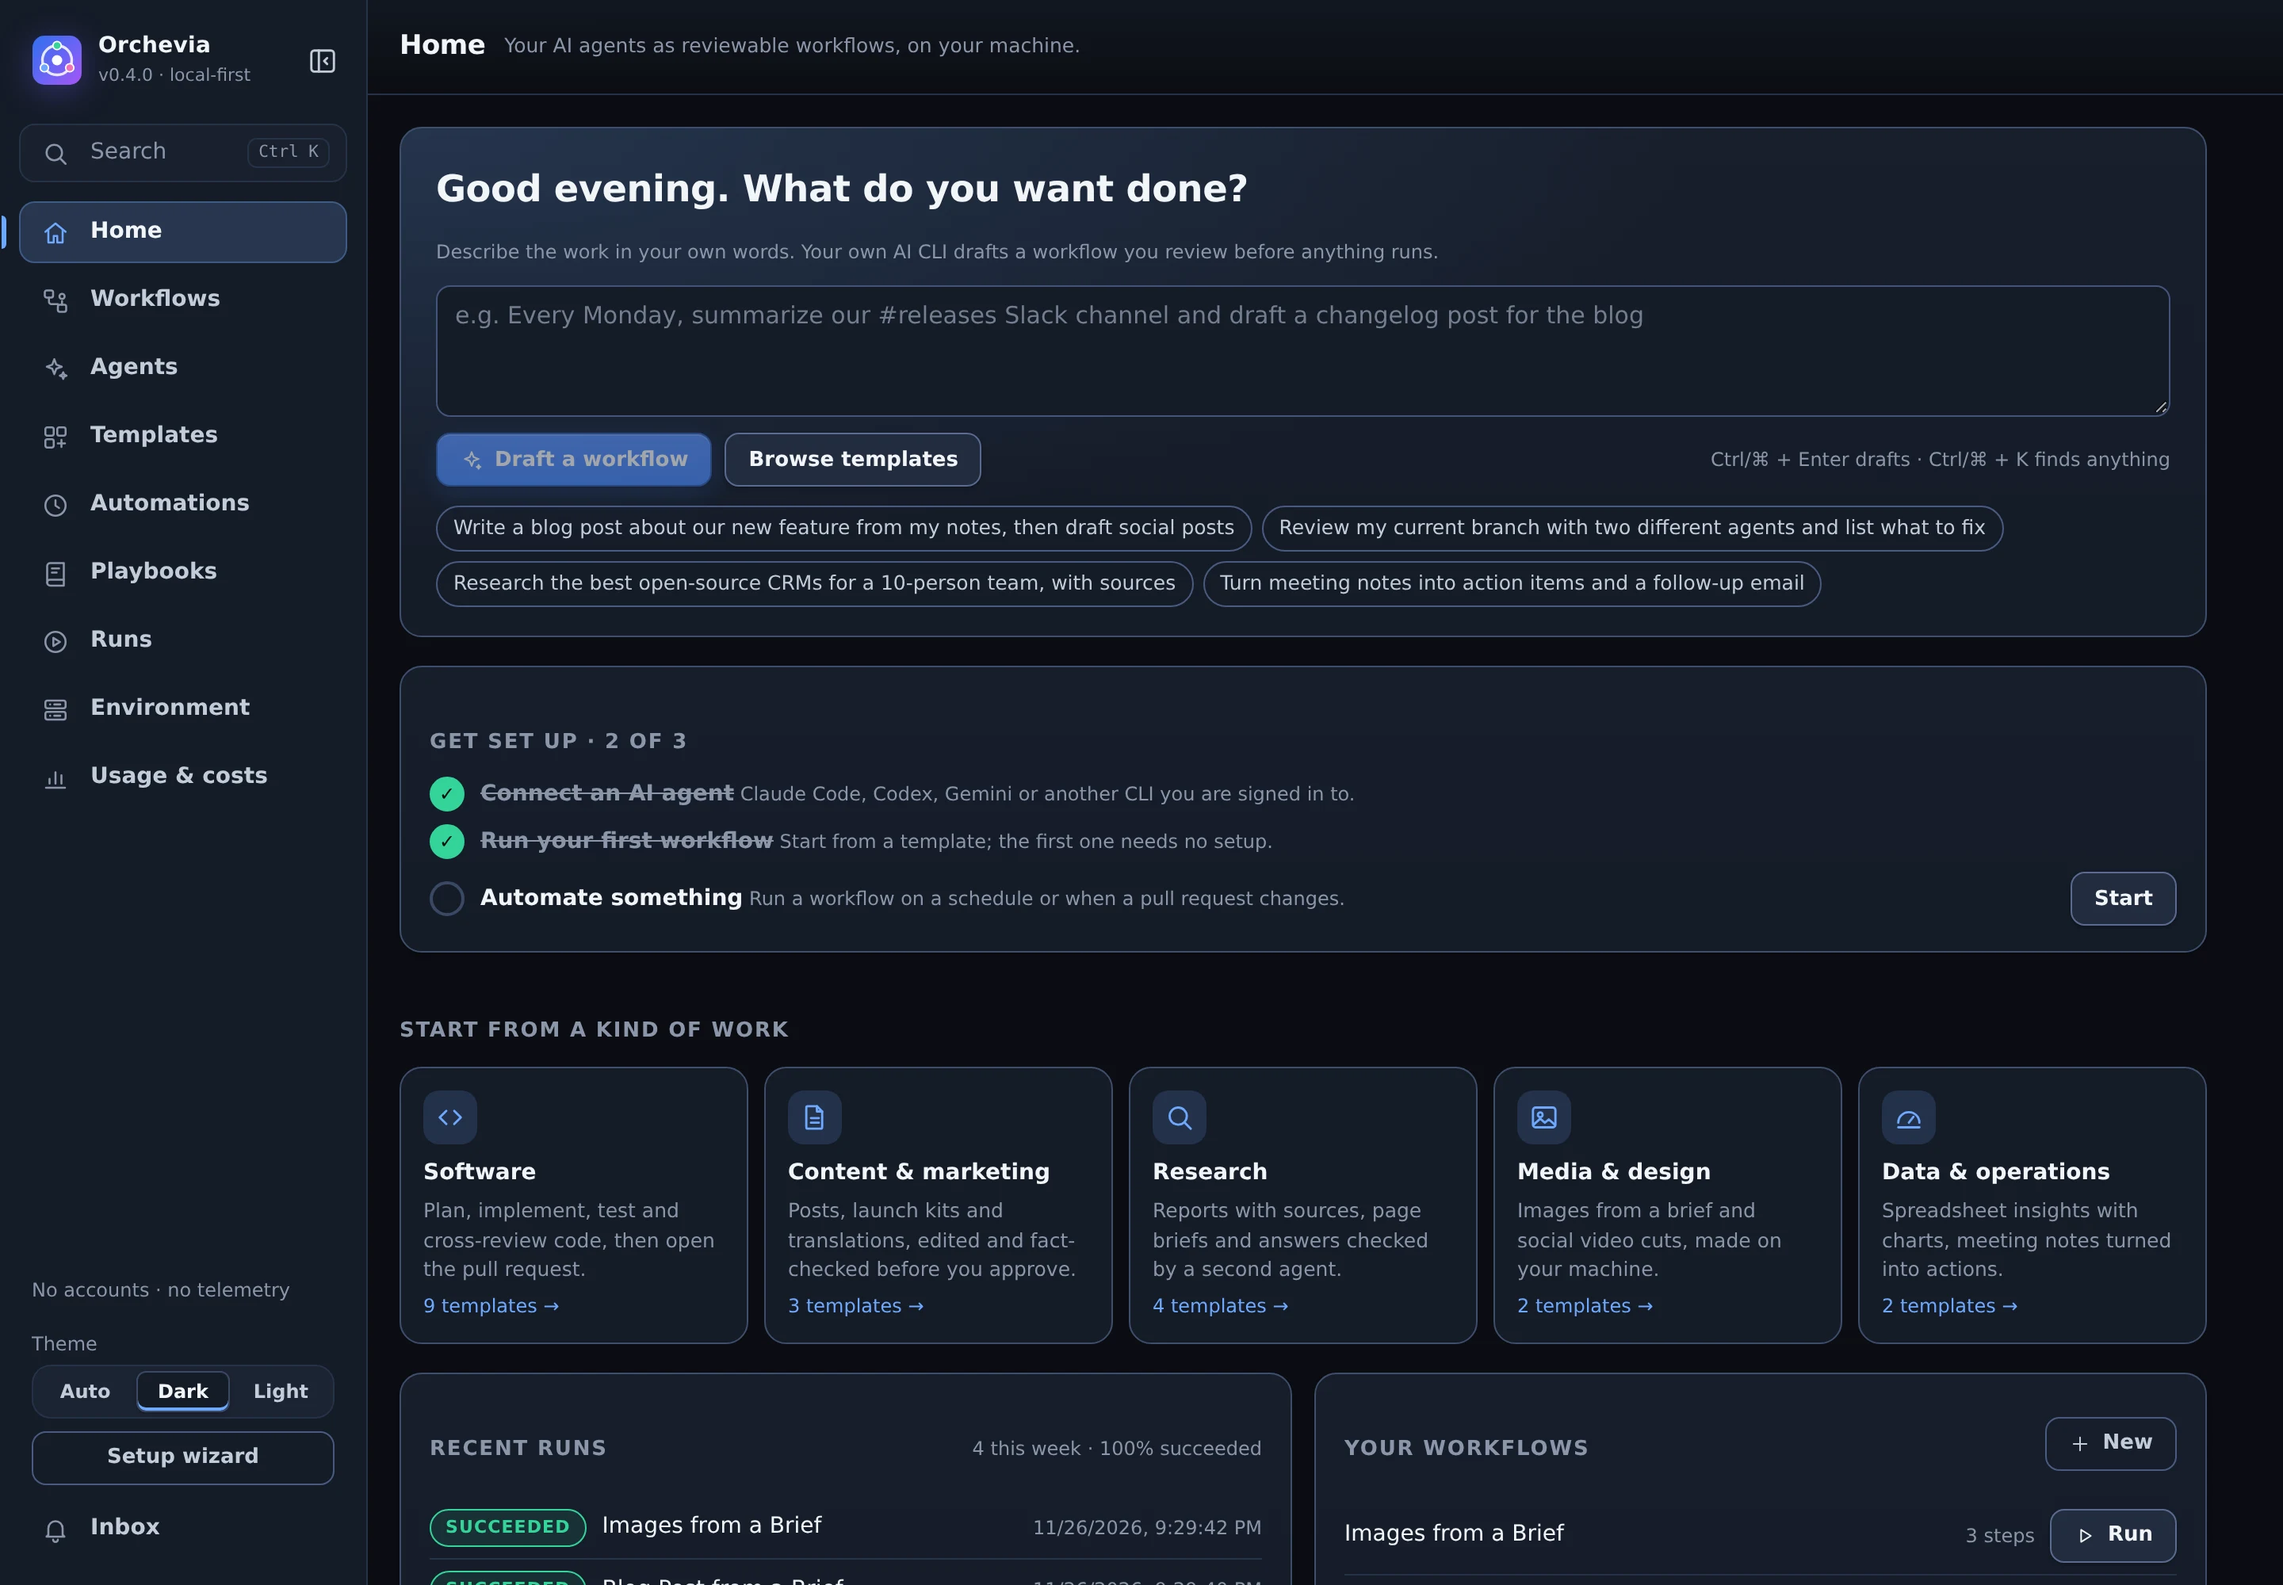
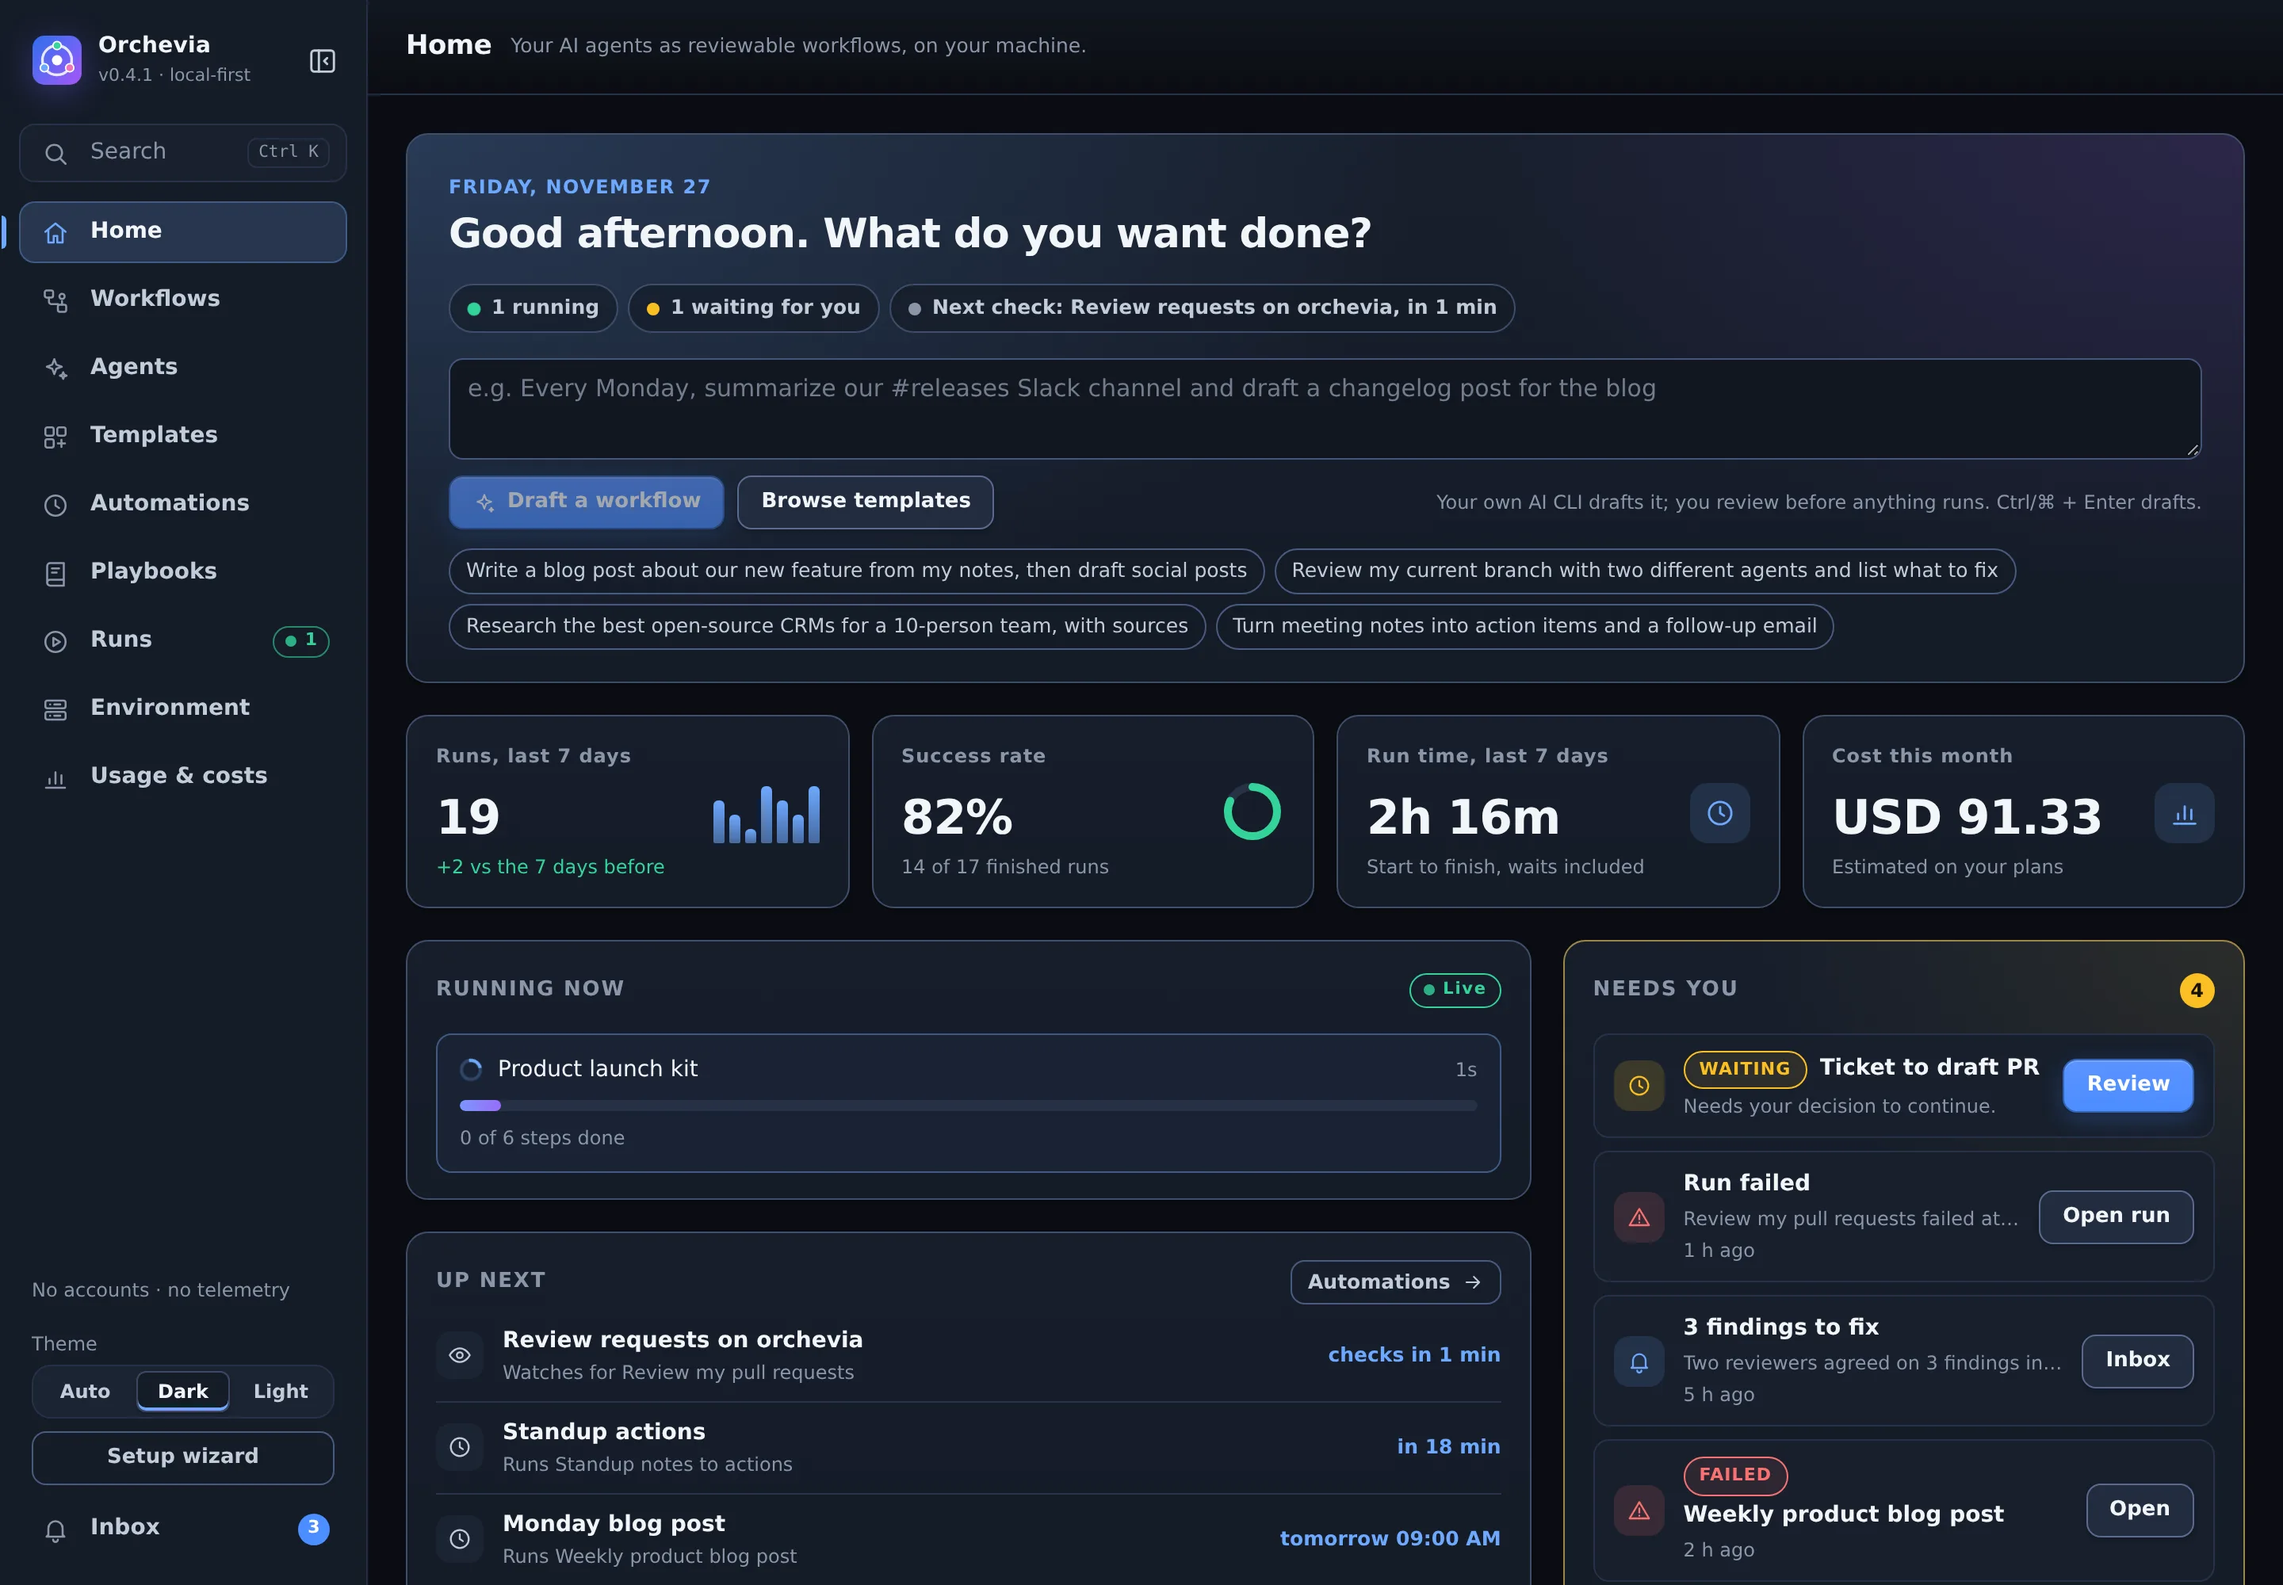
Release 0.4.1
Version 0.4.1 in every manifest, the lockfile and the site's JSON-LD.
CHANGELOG, README, ROADMAP, getting-started and the implementation note
describe the Home dashboard and the shared page layout. The website's
Home screenshot shows the dashboard (1440 × 1000 at 2×, from the seeded
browser demo), with new alt text and card copy.

diff --git a/docs/index.html b/docs/index.html
@@ -65,7 +65,7 @@
         "url": "https://iazaran.github.io/orchevia/",
         "downloadUrl": "https://github.com/iazaran/orchevia/releases/latest",
         "image": "https://iazaran.github.io/orchevia/images/social-preview.jpg",
-        "softwareVersion": "0.4.0",
+        "softwareVersion": "0.4.1",
         "description": "Local-first desktop app for visual workflows with AI agents: code changes and reviews, content, research, media and data work, with MCP tools, Git and GitHub, CI waits, approvals, review history and n8n import and export."
       }
     </script>
@@ -1715,7 +1715,8 @@ Press ▶ Run demo to start.</pre>
               <h3>Start from a goal</h3>
               <p>
                 Home asks what you want done and your own CLI drafts the workflow to
-                review. Ctrl/⌘ K finds any view, workflow, template or run.
+                review. It shows what is running, what needs you and this month's usage.
+                Ctrl/⌘ K finds any view, workflow, template or run.
               </p>
             </article>
             <article class="card third reveal">
@@ -2340,7 +2341,7 @@ Press ▶ Run demo to start.</pre>
             <figure class="shot reveal">
               <img
                 src="./images/home.webp"
-                alt="Orchevia's Home screen: a box asking what you want done with example goals, the setup steps left, five kinds of work and recent runs."
+                alt="Orchevia's Home dashboard: a box asking what you want done, this week's runs, success rate, run time and cost, a run in progress with its step, what needs you and what runs next."
                 width="1440"
                 height="1000"
                 loading="lazy"

diff --git a/implementation-plan/v041-home-dashboard-and-one-layout.md b/implementation-plan/v041-home-dashboard-and-one-layout.md
@@ -1,0 +1,74 @@
+# Orchevia 0.4.1
+
+Feedback on 0.4.0: Home is nice but should be a real dashboard (what is running,
+something from the Inbox, what matters in usage), and pages must stop mixing
+left-aligned narrow content with full-width content.
+
+## Implementation and handoff
+
+- [x] Page column in `src/styles.css`: `.main` defines `--page-gutter`
+  (`max(24px, (100% - --page-max) / 2)`, `--page-max` 1360 px); `.topbar`,
+  `.view` and `.update-banner` pad with it, so the title and body line up and
+  centre beyond the cap. Removed the box caps (`.section-panel`, `.empty-state`,
+  `.notice`, `.run-list`, `.inbox-list`, `.usage-chart-panel`, `.ability-cli`,
+  `.home-view`, `.setup-check-profiles`); only `.section-hint` keeps
+  `--measure`. `src/styles.test.tsx` pins the gutter and the absence of caps.
+- [x] Dashboard data in `src/lib/dashboard.ts` (pure, tested): `activityByDay`
+  (local days, DST-safe), `weekStats`/`weekDelta`, `upcomingAutomations`
+  (enabled schedules' `nextRunAt`, watchers' `watcherNextCheck`),
+  `attentionItems` (waiting runs, unread non-update entries, today's failures,
+  each run once), `monthToDateFilter` (UTC month, whole days, as plan costs
+  need), `formatSpan`. `formatRelative` in `src/lib/time.ts`.
+- [x] `run_stamps` (Tauri command over `usage::run_stamps` and
+  `SqliteDb::list_run_stamps`, mock twin `runStamps`): status and times of every
+  run started since an RFC 3339 instant, newest first, three columns only. Home's
+  figures and chart count it (never `listRuns(100)`), read again when the recent
+  list's ids or statuses change. Same "Invalid 'since' date; use RFC 3339."
+  error on both sides.
+- [x] `list_active_runs` (Tauri command over `SqliteDb::list_active_runs`, mock
+  twin `listActiveRuns`): pending, running and paused runs however old. The
+  store keeps them as `activeRuns`, refreshed with runs every 5 s, and
+  `mergeActiveRuns` adds the ones `listRuns(100)` misses for the sidebar count
+  and Home (live cards, Needs you). `list_runs` itself is unchanged, so Runs
+  and its tests keep their list.
+- [x] `HomeView`: pulse line, four figure tiles (buttons to Runs/Usage), Running
+  now (`runProgress` over `getRunWorkflow` + `getRunResults`, every 2 s, at most
+  three runs), Up next, Activity (CSS bars, `role="img"` summary), Recent runs,
+  Needs you (4 rows + "more in the Inbox"), Usage this month (`usageSummary` +
+  `estimatePlanCost` with the saved plans and share; refetched when a run
+  finishes), kinds of work, workflow cards. Figures and the chart are hidden
+  until there is a run.
+- [x] Sidebar: `.nav-live` running count on Runs; App refreshes runs with the
+  Inbox every 5 s while the window is visible.
+- [x] Runs detail empty state with **Open the latest run**; Usage chart drawn at
+  the panel width (ResizeObserver, 480–1600 coordinates, 760 without one);
+  Environment permission levels and abilities side by side; Inbox relative
+  times, unwrapped buttons; Usage tiles share Home's tile style.
+- [x] Mock backend keeps `notifications` (list newest first, `limit` clamped
+  1–200, `unreadOnly`, mark read persists), matching `db.rs`.
+- [x] Site: new `docs/images/home.webp` (1440 × 1000 @2x from the seeded mock),
+  alt text and the Home card copy.
+
+- [x] Review (Fable, Codex). Fixed: figures built from the 100-run list; the
+  cost tile showing the API value without plans; success and schedule-started
+  entries in Needs you; "more in the Inbox" pointing at runs; a rolling 7 × 24 h
+  count beside a 7-calendar-day chart; failures shown after a rerun; Home polling
+  runs on its own and live progress without an in-flight guard or visibility
+  gate; raw ISO tooltips; a progress bar with a value before its first reading;
+  the Workflows title bar centred over a full-bleed editor. Second reviewer:
+  older running or waiting runs dropping off Home and the sidebar; a stale
+  "Up next" (automations now refresh every 30 s, a passed slot reads "due
+  now"); Home's open-run buttons failing silently; the window starting 14 × 24 h
+  back instead of at local midnight; usage not re-read while a run still runs;
+  zero tokens shown when none were reported; a mouse-only daily breakdown (now
+  also a screen-reader table); Inbox cards squeezed below 1000 px; mock Inbox
+  retention (newest 500 after a listing, as `db.rs`); a persistence test that
+  passed on an empty list. Not changed: tooltips use `formatTime` like every
+  view (no offset), so two times in a DST fall-back hour look alike.
+
+## Notes for the next release
+
+- The mock backend still never creates Inbox entries from run events; only
+  seeded entries show in `pnpm dev`.
+- Home's live progress reads each live run's results (with output) every 3 s;
+  a light progress endpoint or an event stream would make it cheaper.

diff --git a/CHANGELOG.md b/CHANGELOG.md
@@ -6,11 +6,61 @@ All notable changes are recorded here, following
 
 ## [Unreleased]
 
+## [0.4.1] - 2026-11-27
+
+Home becomes a dashboard, and every page uses the same layout.
+
+### Added
+
+- **Home dashboard.** Under the goal box, a line says what is running, what
+  waits for you and what starts next. Four figures follow: runs over the last 7
+  days (against the 7 before, with a small chart), success rate, run time and
+  this month's estimated cost on your plans (without plans it says so; the API
+  value never stands in for a cost); each opens the page it comes from. They
+  count every run in the window, however many there are. **Running now** shows
+  each run in progress with its current step and a progress bar, and runs that
+  still work or wait stay on Home however many newer runs there are. **Needs you**
+  puts runs waiting for a decision first, then unread Inbox entries that ask for
+  something, then failures from the last 24 hours that were not run again, each
+  run listed once, with links to the rest in the Inbox or Runs. **Up next**
+  lists the next schedules and watcher checks (a slot that has passed reads
+  "due now"). **Activity** charts the last 14
+  days of runs by outcome, and **Usage this month** (UTC, as on Usage & costs)
+  shows the estimated cost, the API value the CLIs reported, agent attempts,
+  tokens (unknown or partly reported when CLIs do not report them) and the
+  workflows with the most agent attempts. Opening a run that no longer exists
+  says so. Your workflows are cards with
+  their last run and a **Run** button. A fresh install shows the setup steps
+  instead of empty figures.
+- **Running count in the sidebar.** Runs shows how many runs are running now,
+  on every page (a pulsing dot when the sidebar is collapsed), older runs
+  included.
+- **Runs:** with no run open, the detail pane offers **Open the latest run**.
+
+### Changed
+
+- **One layout on every page.** The page title and the page body share one
+  column: it fills the window up to 1,360 px and is centred beyond that. Cards,
+  panels, lists, tables and charts use the column's full width; only running
+  text keeps a readable line length. Before, some pages stopped at 760, 980 or
+  1,100 px and others filled the window.
+- **Environment:** the two permission levels sit side by side, and Claude Code
+  and Codex abilities do too on wide windows. Setup check rows use the width.
+- **Usage & costs:** the daily chart is drawn at the panel's width (labels keep
+  their size), and the figures use the same tiles as Home.
+- **Inbox:** entries say how long ago they arrived (the exact time is in the
+  tooltip), their buttons no longer wrap, and cards stack on narrower windows
+  instead of squeezing the message.
+- **Automations:** the background-mode card spans the page.
+
 ### Fixed
 
 - **Website:** the two screenshots above the templates are the same size, line
   up at the top and keep a gap before the template cards (they used the
-  text-and-image layout, so one was larger and touched the cards).
+  text-and-image layout, so one was larger and touched the cards). The Home
+  screenshot shows the new dashboard.
+- **Browser demo (`pnpm dev`):** the Inbox keeps entries and their read state
+  (newest 500, as in the app) instead of always being empty.
 
 ## [0.4.0] - 2026-11-26
 

diff --git a/docs/getting-started.md b/docs/getting-started.md
@@ -20,8 +20,11 @@ Contributors can use `pnpm dev` to explore the UI. That browser demo simulates
 commands; `pnpm tauri dev` and the installed desktop app execute them.
 
 Orchevia opens on **Home**: type what you want done and choose **Draft a
-workflow**, or pick a kind of work. **Ctrl/⌘ + K** finds any view, workflow,
-template or recent run from anywhere.
+workflow**, or pick a kind of work. Home also shows what is running (with each
+run's current step), what needs you (approvals, failures, findings), what runs
+next, the last two weeks of runs and this month's usage; every figure opens the
+page it comes from. **Ctrl/⌘ + K** finds any view, workflow, template or recent
+run from anywhere.
 
 ## Work beyond code
 

diff --git a/README.md b/README.md
@@ -44,7 +44,7 @@ made.
 - **Reuse and share.** Templates, Playbooks that detect your repository's commands, and
   **n8n import and export**.
 
-**New in 0.4:** a Home screen where you describe what you want done · a command
+**New in 0.4:** a Home dashboard where you describe what you want done and see what is running, what needs you and this month's usage · a command
 palette (Ctrl/⌘ + K) · **Files** on every run with previews · eight templates for
 content, research, media and data (blog posts, launch kits, research reports,
 translations, images, social video cuts, spreadsheet insights, meeting actions) ·

diff --git a/ROADMAP.md b/ROADMAP.md
@@ -12,7 +12,8 @@ already have: your browser through Claude in Chrome, and the connectors and MCP 
 you set up in Claude Code and Codex, chosen once. 0.4 takes the same agents, reviews and
 approvals beyond code: content, research, media and data templates that work in their
 own workspace folder, a Files panel on every run, a Home page that starts from a goal,
-and a command palette.
+and a command palette. 0.4.1 turns Home into a dashboard (live runs, what needs you,
+what runs next, activity and usage) and gives every page one layout.
 
 ## Implemented
 
